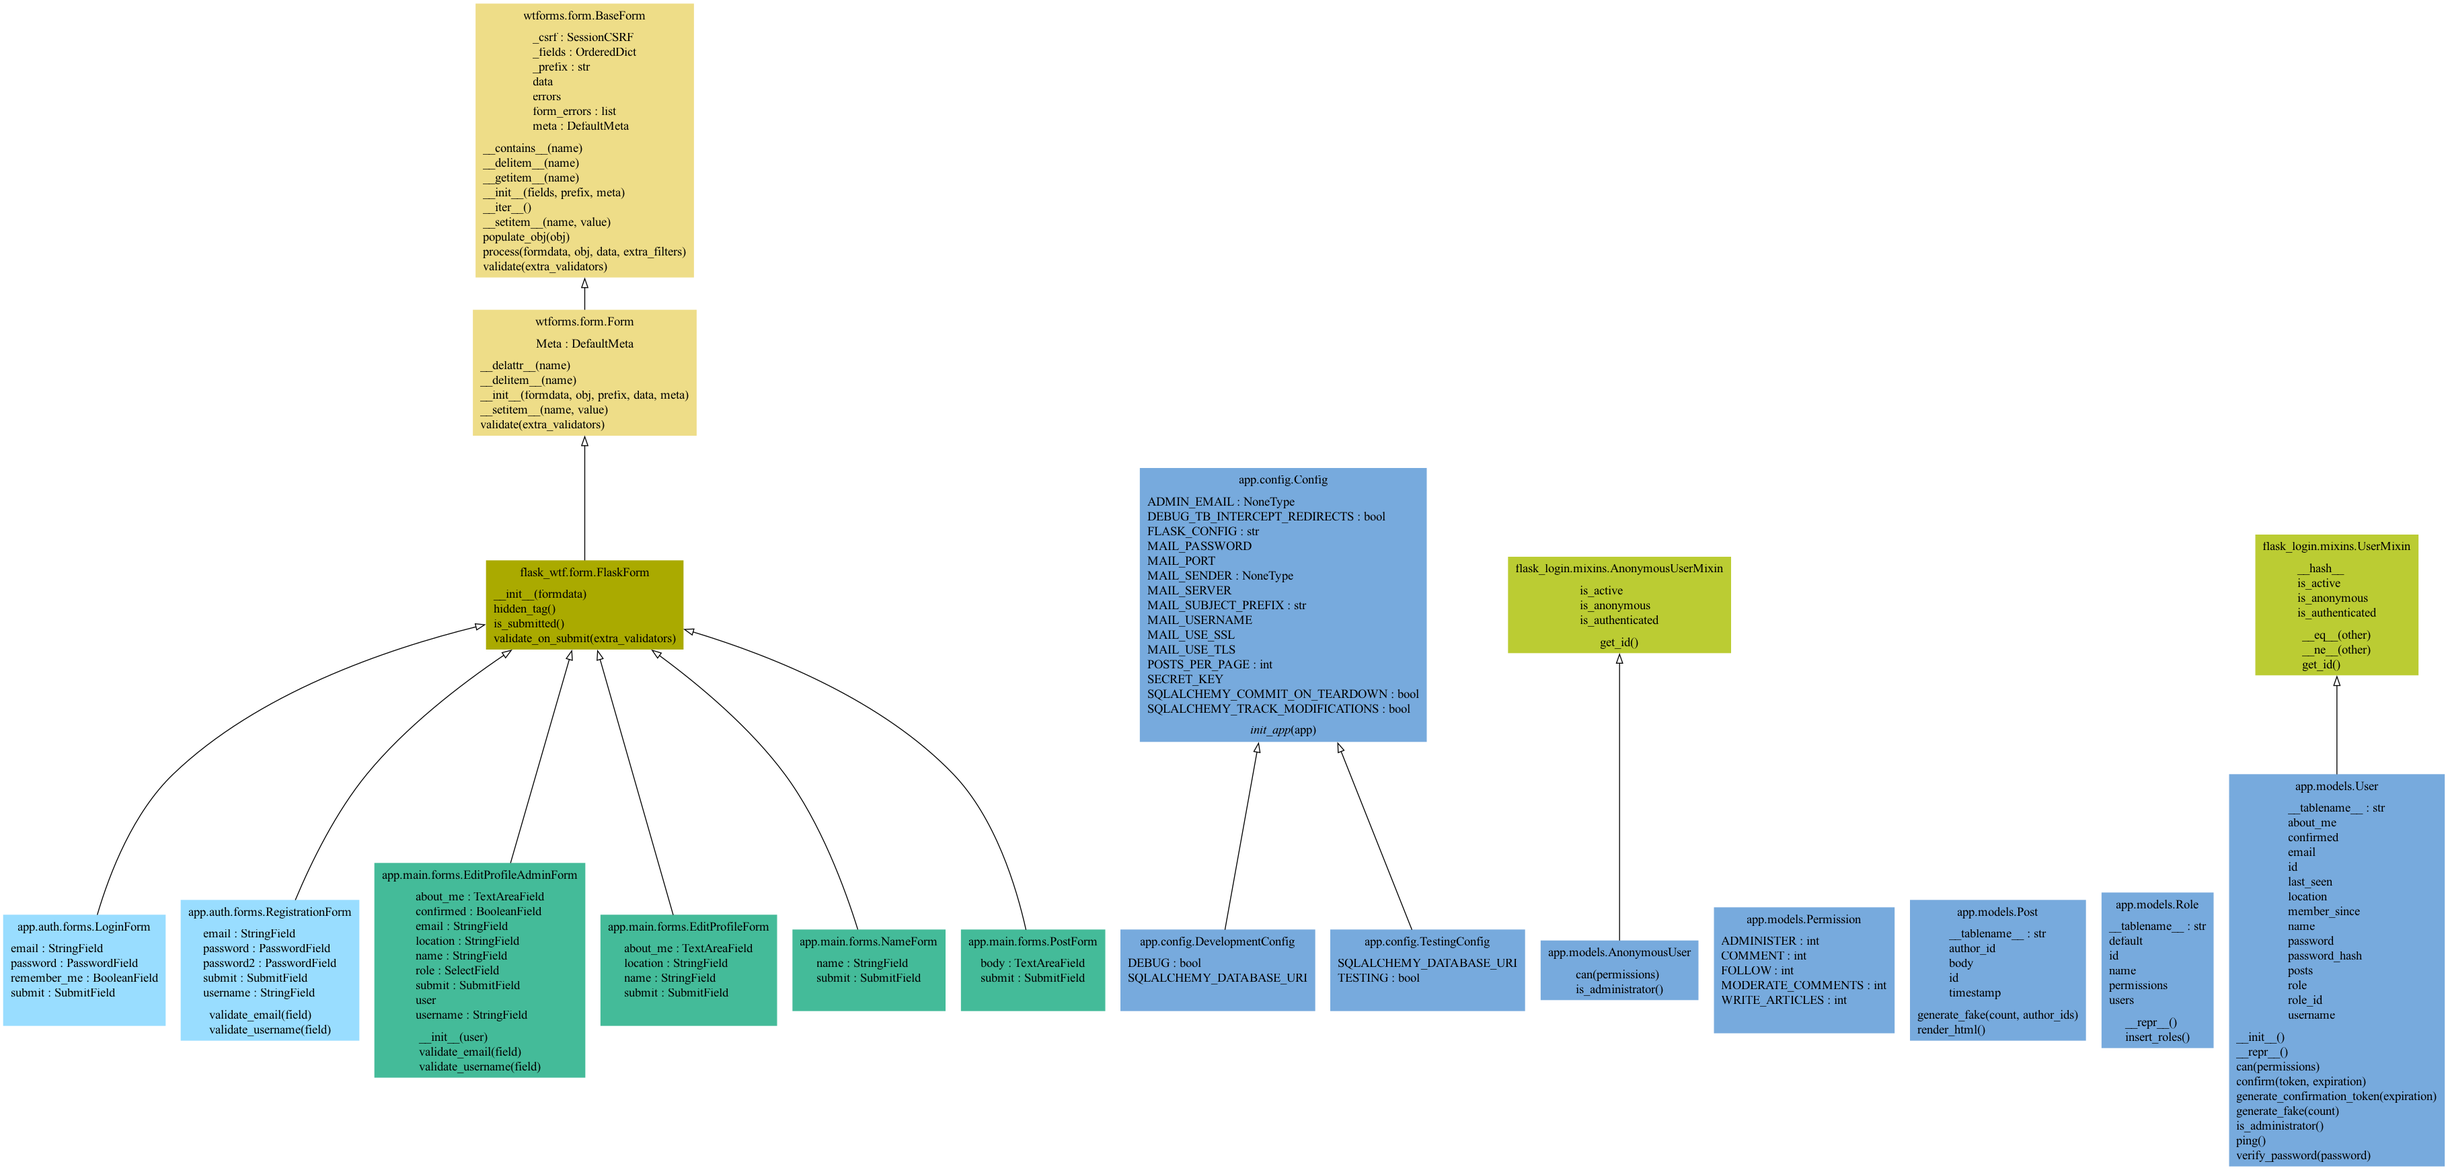
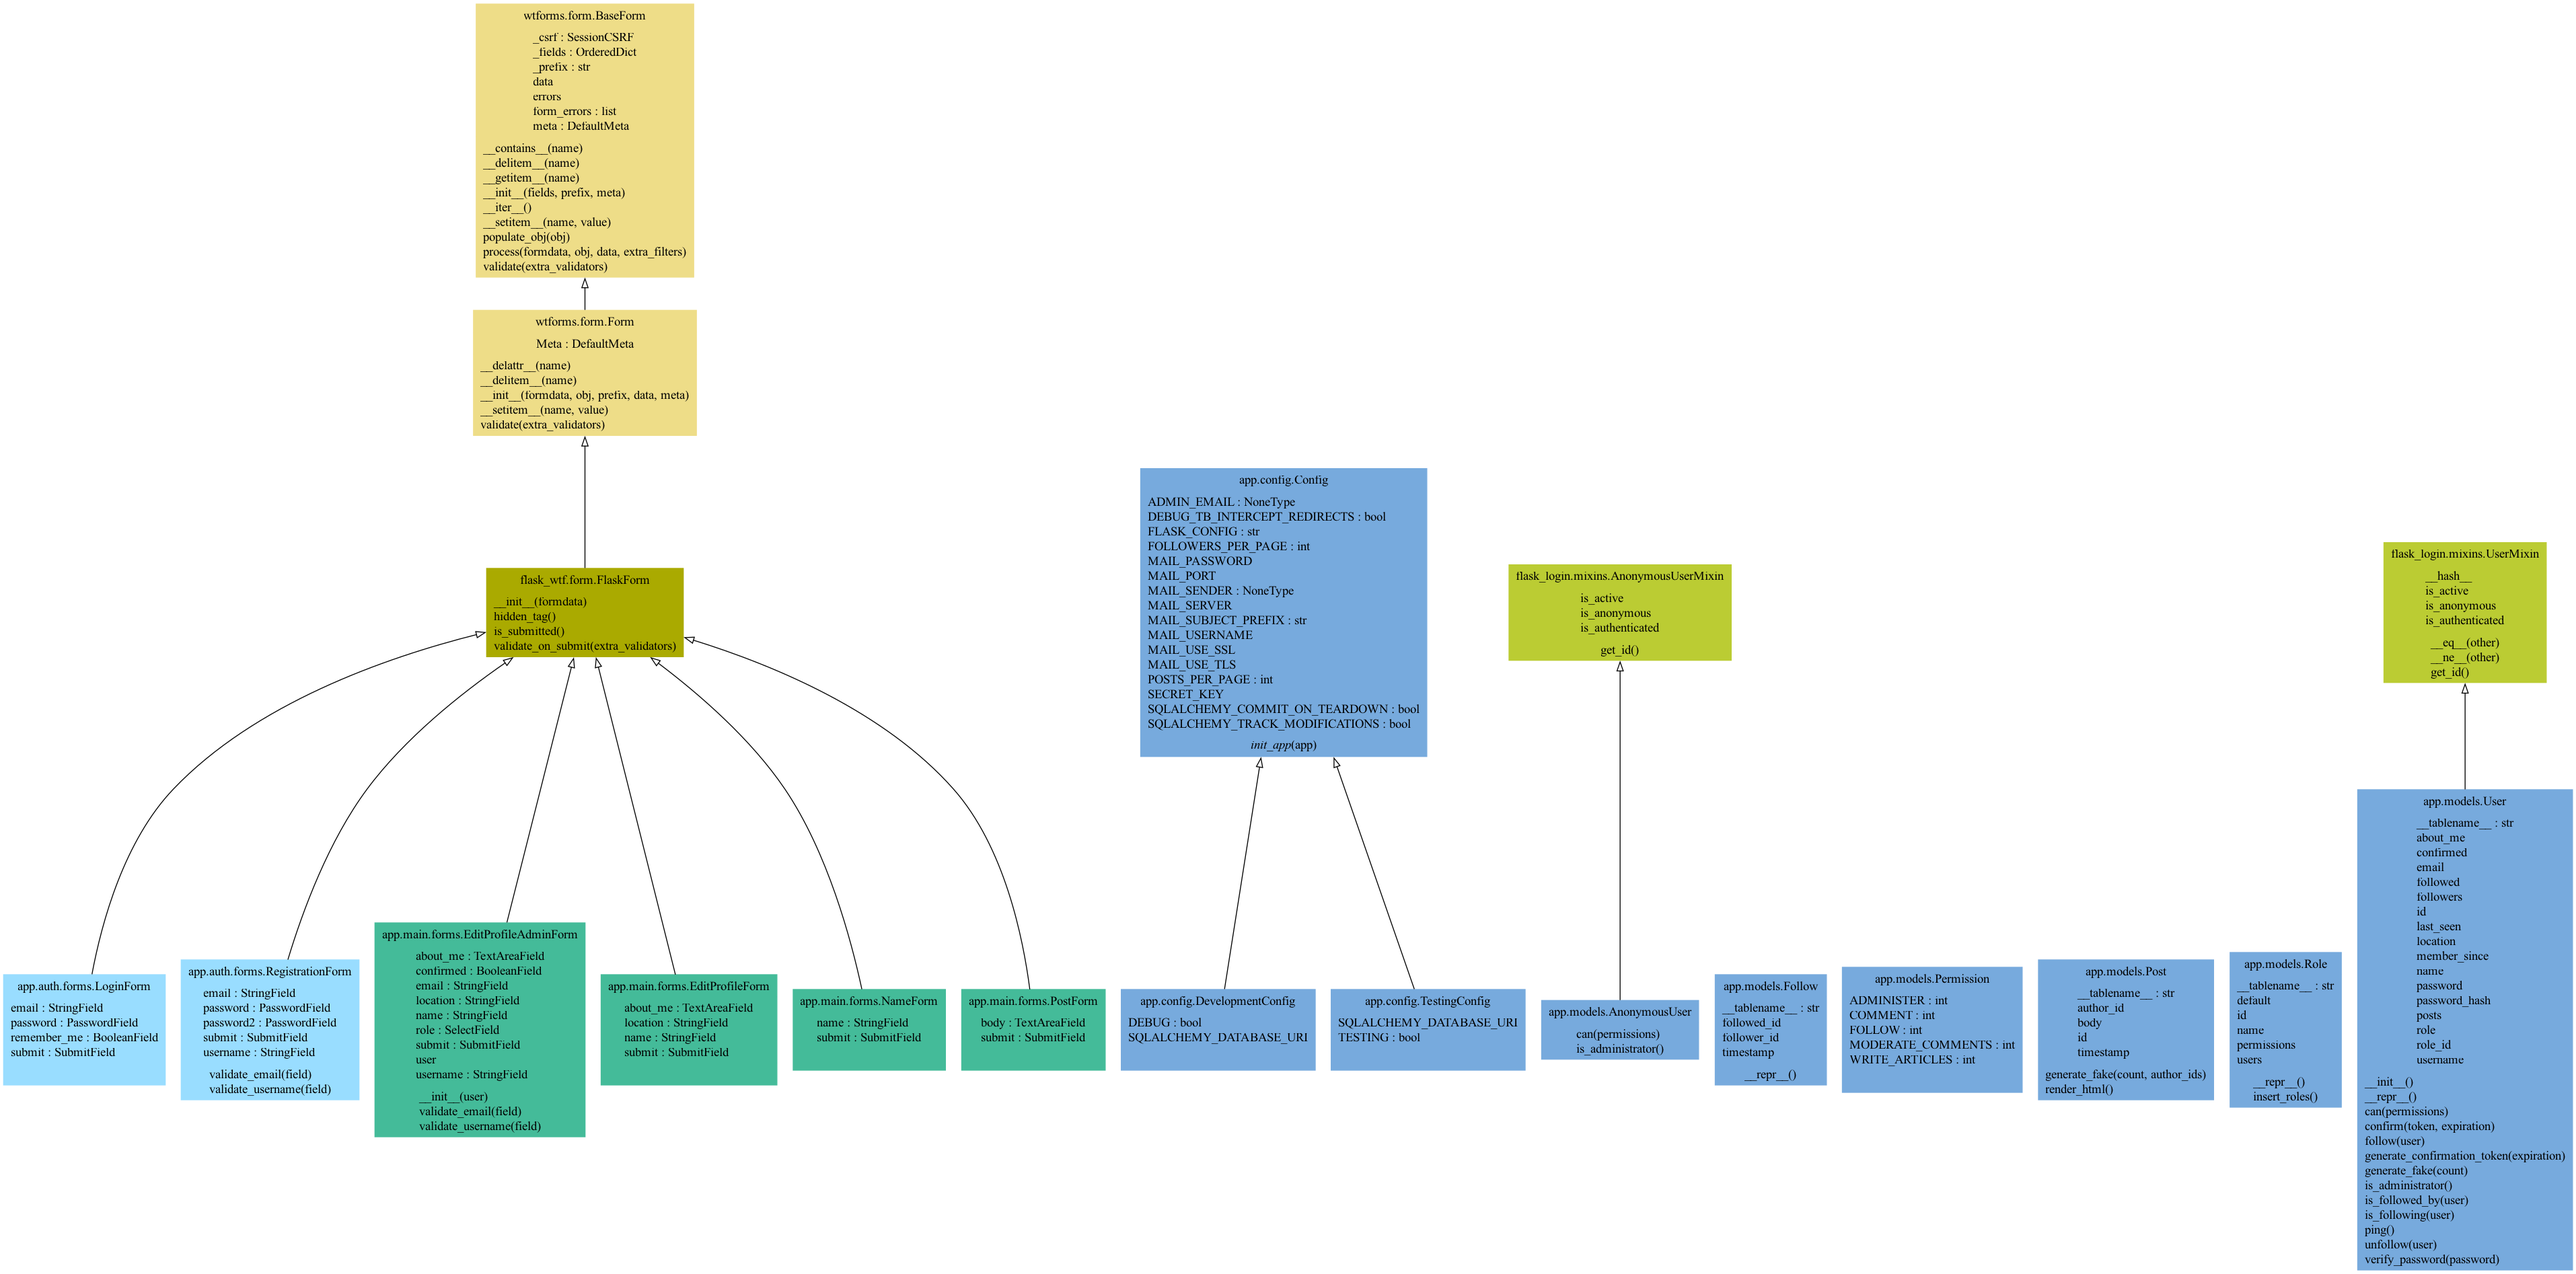
Добавлена функциональность подписок.

diff --git a/app/templates/base.html b/app/templates/base.html
@@ -48,25 +48,28 @@
 					</a>
                 </li>
                 {% if current_user.is_authenticated %}
-                <li class="nav-item">
-                    <a class="nav-link {% if request.endpoint == 'main.profile' %}active{% endif %} fw-bold text-uppercase" 
-						href="{{ url_for('main.profile', username=current_user.username) }}">
-						Profile
-					</a>
-                </li>
+                    <li class="nav-item">
+                        <a class="nav-link {% if request.endpoint == 'main.profile' %}active{% endif %} fw-bold text-uppercase" 
+                            href="{{ url_for('main.profile', username=current_user.username) }}">
+                            Profile
+                        </a>
+                    </li>
                 {% endif %}
             </ul>
 
             <!-- Правая часть навигации -->
             <ul class="navbar-nav">
                 {% if current_user.is_authenticated %}
-                <li class="nav-item">
-                    <a class="btn btn-outline-light btn-sm" href="{{ url_for('auth.logout') }}">Sign Out</a>
-                </li>
+                    <li class="nav-item">
+                        <a class="btn btn-outline-light btn-sm" href="{{ url_for('auth.logout') }}">Sign Out</a>
+                    </li>
                 {% else %}
-                <li class="nav-item">
-                    <a class="btn btn-primary btn-sm" href="{{ url_for('auth.login') }}">Sign In</a>
-                </li>
+                    <li class="nav-item">
+                        <a class="btn btn-primary btn-sm" 
+                            href="{{ url_for('auth.login') }}">
+                            Sign In
+                        </a>
+                    </li>
                 {% endif %}
             </ul>
         </div>

diff --git a/app/templates/profile.html b/app/templates/profile.html
@@ -33,6 +33,31 @@
 	{% if current_user.is_administrator() %} 
 	<a class="btn btn-danger" href="{{ url_for('.edit_profile_admin', id=user.id) }}"> Редактировать профиль [Admin]</a>
 	{% endif %}
+
+	{% if current_user.can(Permission.FOLLOW) and user != current_user %} 
+		{% if not current_user.is_following(user) %}
+			<a href="{{ url_for('.follow', username=user.username) }}" class="btn btn-primary">
+				Follow
+			</a> 
+		{% else %}
+			<a href="{{ url_for('.unfollow', username=user.username) }}" class="btn btn-warning">
+				Unfollow
+			</a>
+		{% endif %} 
+	{% endif %}
+	<br></br>
+	<div>
+		<a href="{{ url_for('.followers', username=user.username) }}"> 
+			Followers: <span class="badge">{{ user.followers.count() }}</span>
+		</a>
+
+		<a href="{{ url_for('.followed_by', username=user.username) }}">
+			Following: <span class="badge">{{ user.followed.count() }}</span> 
+		</a>
+	</div>
+	{% if current_user.is_authenticated and user != current_user and user.is_following(current_user) %}
+		| <span class="label label-default">Follows you</span> 
+	{% endif %}
 </div>
 <h3>Мои посты:</h3> 
 	{% include '_posts.html' %}

diff --git a/app/templates/followers_or_subscriptions.html b/app/templates/followers_or_subscriptions.html
@@ -1,0 +1,39 @@
+{% extends "base.html" %}
+{% from "_pagination.html" import render_pagination %}
+{% block title %} 
+    {{title}}     
+{% endblock %}
+
+{% block page_content %} 
+
+
+<div class="subscription-container">
+    <h1 class="page-title">
+        {% if endpoint == '.followers' %}
+            Подписчики
+        {% else %}
+            Подсписки
+        {% endif %}
+        {{user.username}}:
+    </h1>
+    
+    {% for follower in follows %}
+    <p>
+        <div class="subscription-card text-start">
+            <div class="d-flex justify-content-between align-items-center">
+                <div class="post-author">
+                    <a href="{{ url_for('.profile', username=follower.get('user').username) }}">
+                        {{ follower.get('user').username }}
+                    </a>
+                </div>
+                <div class="subscription-date">
+                    {{ follower.get('timestamp') }}
+                </div>
+            </div>
+        </div>
+    </p>
+    {% endfor %}
+</div>
+
+{{ render_pagination(pagination, username=user.username) }}
+{% endblock %}

diff --git a/app/static/css/styles.css b/app/static/css/styles.css
@@ -265,6 +265,30 @@
     margin: 0 2px !important;
 }
 
+
+.subscription-card {
+    background: white;
+    border: none;
+    border-radius: 8px;
+    box-shadow: 0 1px 2px rgba(0,0,0,0.04);
+    margin-bottom: 10px;
+    transition: all 0.2s ease;
+    padding: 1rem 1.25rem;
+    width: 55%; /* Явно задаем ширину */
+}
+.subscription-card:hover {
+    box-shadow: 0 2px 6px rgba(0,0,0,0.08);
+}
+.subscription-name {
+    font-weight: 500;
+    color: #212529;
+    margin-bottom: 0;
+}
+.subscription-date {
+    color: #6c757d;
+    font-size: 0.875rem;
+}
+
 /* 
 
 Основные классы для кнопок:

diff --git a/app/templates/index.html b/app/templates/index.html
@@ -42,15 +42,6 @@
             maxHeight: "200px",
             autoFocus: false,
             status: true, // Статус бар снизу
-            /* autoDownloadFontAwesome: false */
-            /*
-            toolbar: [
-                "bold", "italic", "heading", "|",
-                "quote", "unordered-list", "ordered-list", "|",
-                "link", "image", "|",
-                "preview", "side-by-side", "fullscreen"
-            ],
-            */
         });
     });
 </script>

diff --git a/app/templates/post_details.html b/app/templates/post_details.html
@@ -1,5 +1,7 @@
 {% extends "base.html" %}
-{% block title %}Russian Engineers - Пост{% endblock %}
+{% block title %} 
+    Russian Engineers - Пост {{posts[0].id}}     
+{% endblock %}
 
 {% block page_content %} 
 {% include '_posts.html' %} 

diff --git a/app/main/views.py b/app/main/views.py
@@ -21,7 +21,7 @@ from flask_login import current_user, login_required
 from sqlalchemy import select
 
 from .. import db
-from ..decorators import admin_required
+from ..decorators import admin_required, permission_required
 from ..email import create_and_send_email_async
 from ..logger import LOG_FILE
 from ..models import Permission, Post, Role, User
@@ -192,9 +192,93 @@ def edit_profile_admin(id):
     return render_template('edit_profile.html', form=form, user=user)
 
 
+@main_bp.route('/follow/<username>')
+@login_required
+@permission_required(Permission.FOLLOW)
+def follow(username):
+    # user = User.query.filter_by(username=username).first()
+    user = db.session.scalar(select(User).where(User.username == username))
+    if user is None:
+        flash('Нет этого пользователя.')
+        return redirect(url_for('.index'))
+
+    if current_user.is_following(user):
+        flash('Вы уже подписаны на этого пользователя.')
+        return redirect(url_for('.profile', username=username))
+
+    current_user.follow(user)
+    flash('Вы подписались на %s.' % username)
+    return redirect(url_for('.profile', username=username))
+
+
+@main_bp.route('/unfollow/<username>')
+@login_required
+@permission_required(Permission.FOLLOW)
+def unfollow(username):
+    # user = User.query.filter_by(username=username).first()
+    user = db.session.scalar(select(User).where(User.username == username))
+    if user is None:
+        flash('Нет этого пользователя.')
+        return redirect(url_for('.index'))
+
+    if not current_user.is_following(user):
+        flash('Вы не подписаны на этого пользователя.')
+        return redirect(url_for('.profile', username=username))
+
+    current_user.unfollow(user)
+    flash('Вы отписались от %s.' % username)
+    return redirect(url_for('.profile', username=username))
+
+
+@main_bp.route('/followers/<username>')
+def followers(username):
+    user = db.session.scalar(select(User).where(User.username == username))
+    if user is None:
+        flash('Нет этого пользователя.')
+        return redirect(url_for('.index'))
+
+    page = request.args.get('page', 1, type=int)
+    pagination = user.followers.paginate(
+        page=page,
+        per_page=current_app.config['FOLLOWERS_PER_PAGE'],
+        error_out=False)
+
+    follows = [{'user': item.follower, 'timestamp': item.timestamp} for item in pagination.items]
+    return render_template(
+        'followers_or_subscriptions.html',
+        user=user,
+        title="Followers of",
+        endpoint='.followers',
+        pagination=pagination,
+        follows=follows)
+
+
+@main_bp.route('/subscriptions/<username>')
+def followed_by(username):
+    user = db.session.scalar(select(User).where(User.username == username))
+    if user is None:
+        flash('Нет этого пользователя.')
+        return redirect(url_for('.index'))
+
+    page = request.args.get('page', 1, type=int)
+    pagination = user.followed.paginate(
+        page=page,
+        per_page=current_app.config['FOLLOWERS_PER_PAGE'],
+        error_out=False)
+
+    follows = [{'user': item.followed, 'timestamp': item.timestamp} for item in pagination.items]
+    return render_template(
+        'followers_or_subscriptions.html',
+        user=user,
+        title="Subscriptions of",
+        endpoint='.subscriptions',
+        pagination=pagination,
+        follows=follows)
+
+
 @main_bp.route('/post/<int:id>')
 def post_details(id):
-    post = db.session.scalars(select(Post).where(Post.id == id))
+    post = db.session.scalars(select(Post).where(Post.id == id)).all()
     return render_template('post_details.html', posts=post)
 
 

diff --git a/app/models.py b/app/models.py
@@ -69,6 +69,16 @@ class Role(db.Model):
         db.session.commit()
 
 
+class Follow(db.Model):
+    __tablename__ = 'follows'
+    follower_id = db.Column(db.Integer, db.ForeignKey('users.id'), primary_key=True)
+    followed_id = db.Column(db.Integer, db.ForeignKey('users.id'), primary_key=True)
+    timestamp = db.Column(db.DateTime, default=db.func.now())
+
+    def __repr__(self):
+        return f'Follow(followed_id = {self.followed_id}, follower_id = {self.follower_id})'
+
+
 # UserMixin - для поддержки методов аутентификации: is_authenticated, is_active и проч.
 class User(db.Model, UserMixin):
     __tablename__ = 'users'     # Имя таблицы
@@ -90,6 +100,24 @@ class User(db.Model, UserMixin):
 
     # Нужно постоянно обновлять, для этого сделан отдельный метод ping
     last_seen = db.Column(db.DateTime(), default=datetime.now(timezone.utc))
+
+    # Набор подписчиков - это строки модели follows, связанные по нужному значению followed_id
+    followers = db.relationship('Follow',
+                                foreign_keys=[Follow.followed_id],
+                                # Нужна одна жадная загрузка вместо кучи маленьких (проблема N+1).
+                                # В режиме lazy='joined' связанные объекты извлекаются немедленно из
+                                # запроса соединения.
+                                backref=db.backref('followed', lazy='joined'),
+                                lazy='dynamic',
+                                cascade='all, delete-orphan'
+                                )
+    # Набор подписок - это строки модели follows, связанные по нужному значению follower_id
+    followed = db.relationship('Follow',
+                               foreign_keys=[Follow.follower_id],
+                               backref=db.backref('follower', lazy='joined'),
+                               lazy='dynamic',
+                               cascade='all, delete-orphan'
+                               )
 
     def __init__(self, **kwargs):
         """Инициализирует объект пользователя и назначает роль администратора, если email совпадает
@@ -120,6 +148,28 @@ class User(db.Model, UserMixin):
         if self.email == current_app.config['ADMIN_EMAIL']:
             stmt = select(Role).where(Role.permissions == 0xff)
             self.role = db.session.scalar(stmt).one()
+
+    def is_following(self, user):
+        return self.followed.filter_by(followed_id=user.id).first() is not None
+
+    def is_followed_by(self, user):
+        return self.followers.filter_by(follower_id=user.id).first() is not None
+
+    def follow(self, user):
+        if not self.is_following(user):
+            f = Follow(follower=self, followed=user)
+            db.session.add(f)
+            db.session.commit()
+
+    def unfollow(self, user):
+        """Удаление подписки на пользователя.
+        Что происходит: удаляется запись из таблицы follows (т.е. удаляется Follow-объект).
+        Доступ к записям осуществляется через self.followed .
+        """
+        f = self.followed.filter_by(followed_id=user.id).first()
+        if f:
+            db.session.delete(f)
+            db.session.commit()
 
     @staticmethod
     def generate_fake(count=10):

diff --git a/app/config.py b/app/config.py
@@ -40,6 +40,7 @@ class Config:
     DEBUG_TB_INTERCEPT_REDIRECTS = False
 
     POSTS_PER_PAGE = 4
+    FOLLOWERS_PER_PAGE = 10
 
     # При импорте логических переменных важно ЯВНО привести их к логическому
     # типу. Иначе они будут интерпретированы как строка, что в свою очередь
